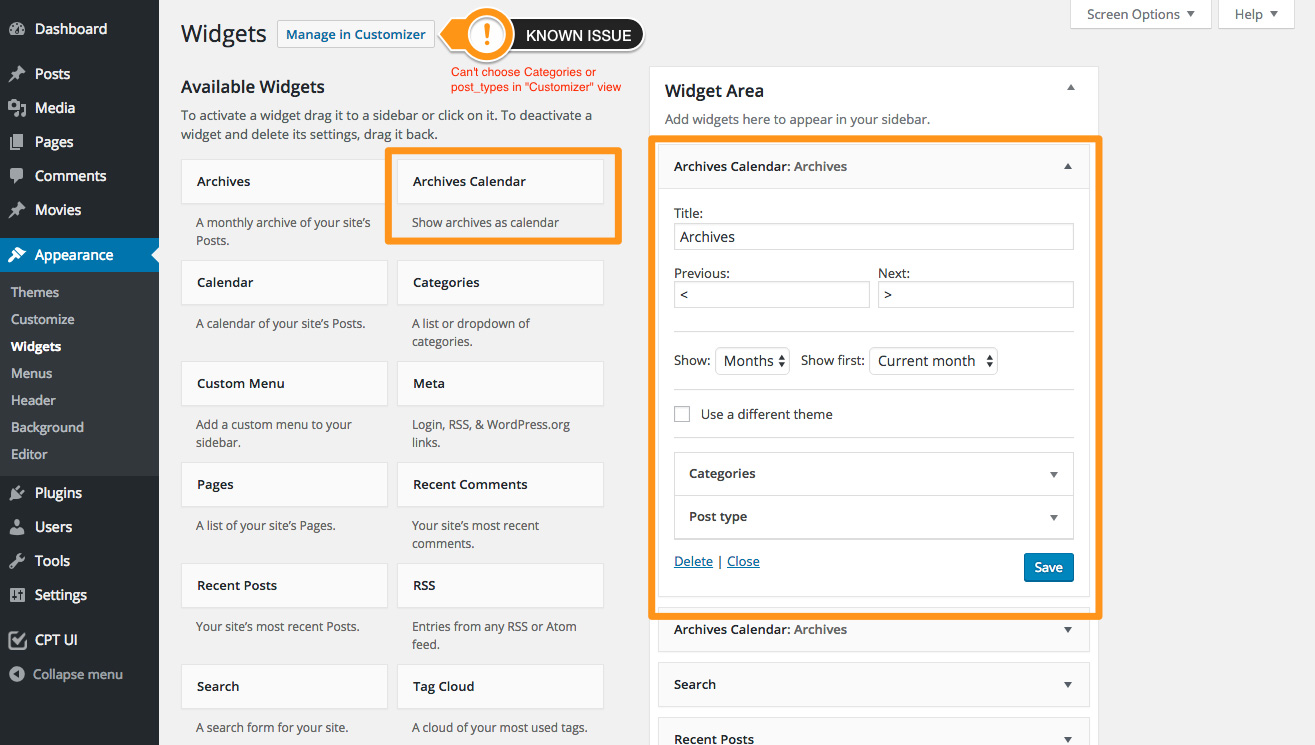
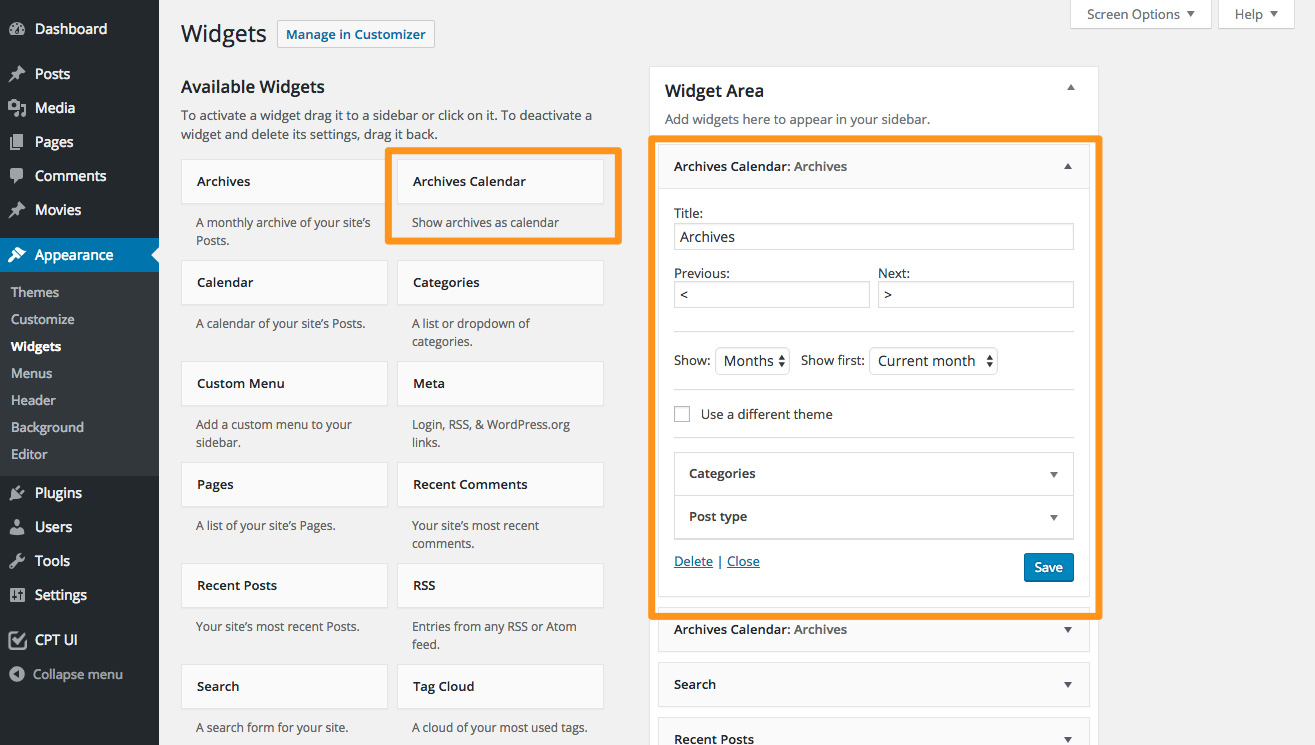
- fix the issue with the widget settings in the "Customizer"

Changed region(s): [[0.3118, 0.0, 0.4989, 0.1235]]

diff --git a/admin/css/widget-settings.css b/admin/css/widget-settings.css
@@ -1,0 +1,14 @@
+/* line 1, ../scss/widget-settings.scss */
+.arcw-accordion.accordion-container {
+  position: relative;
+}
+/* line 5, ../scss/widget-settings.scss */
+.arcw-accordion.accordion-container > .accordion-section > .accordion-section-content {
+  display: none;
+  position: relative !important;
+  left: 0px !important;
+}
+/* line 11, ../scss/widget-settings.scss */
+.arcw-accordion.accordion-container > .accordion-section.open > .accordion-section-content {
+  display: block !important;
+}

diff --git a/admin/scss/widget-settings.scss b/admin/scss/widget-settings.scss
@@ -1,0 +1,16 @@
+.arcw-accordion.accordion-container {
+	position: relative;
+
+	> .accordion-section {
+		> .accordion-section-content {
+			display: none;
+			position: relative !important;
+			left: 0px !important;
+		}
+		&.open {
+			> .accordion-section-content {
+				display: block !important;
+			}
+		}
+	}
+}

diff --git a/Gruntfile.js b/Gruntfile.js
@@ -107,7 +107,7 @@ module.exports = function (grunt) {
 					'!node_modules/**',
 					'!admin/scripts/**',
 					'!admin/scss/**',
-					'!*.{js,scss,json}'
+					'!*.{js,scss,json,md}'
 				],
 				dest: 'dist/'
 			}

diff --git a/archives-calendar.php b/archives-calendar.php
@@ -58,6 +58,7 @@ add_filter( 'plugin_action_links_' . plugin_basename( __FILE__ ), 'arcw_plugin_a
 add_action( 'wp_enqueue_scripts', 'archivesCalendar_jquery_plugin' );
 // Scripts to be included on Widget configuration page
 add_action( 'admin_print_scripts-widgets.php', 'arcw_admin_widgets_scripts' );
+add_action( 'admin_print_scripts-customize.php', 'arcw_admin_widgets_scripts' );
 
 if ( $archivesCalendar_options['css'] == 1 ) // Archives Calendar Widget Themes CSS
 {
@@ -92,8 +93,10 @@ function archives_calendar_styles() {
 }
 
 function arcw_admin_widgets_scripts() {
+	wp_register_style( 'arcw-widget-settings', plugins_url( '/admin/css/widget-settings.css', __FILE__ ), array(), ARCWV );
 	wp_register_script( 'arcwpWidgetsPage', plugins_url( '/admin/js/widgets-page.js', __FILE__ ), array(), ARCWV );
 	wp_enqueue_script( 'arcwpWidgetsPage' );
+	wp_enqueue_style( 'arcw-widget-settings' );
 }
 
 /***** CHECK MULTISITE NETWORK *****/

diff --git a/CHANGELOG.md b/CHANGELOG.md
@@ -9,6 +9,7 @@
 * [fix] `today` date based on timezone
 * [upd] all themes converted to SCSS format (no more LESS)
 * [fix] plugin settings were not updated with the new ones on plugin activation after an update
+* [fix] issue with the widget settings in "Customizer", could not select any category.
 
 ## 1.0.5
 * [fix] archives filter improvement and fixes
